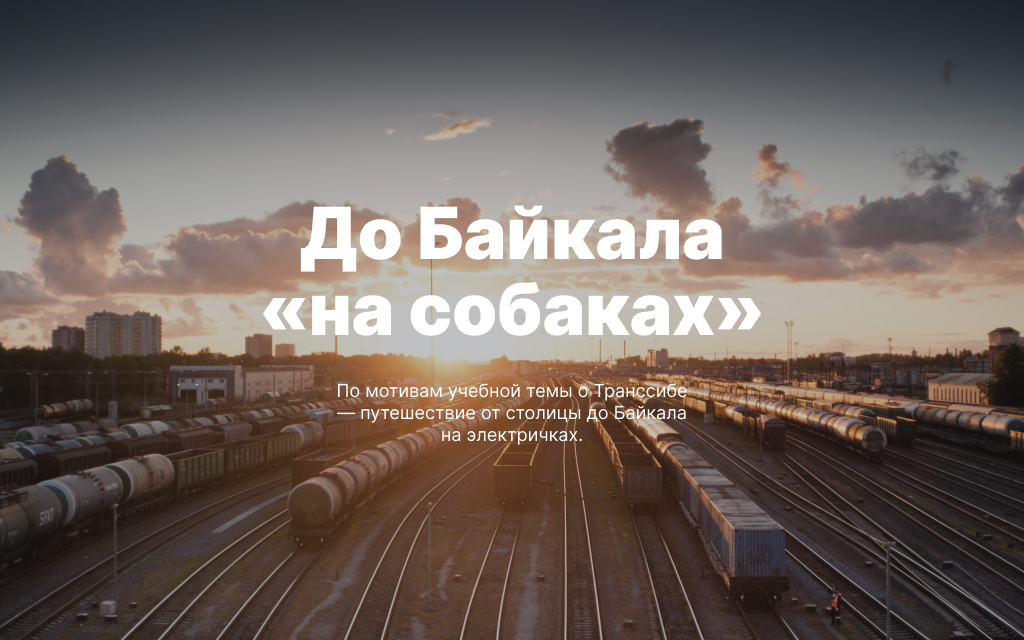
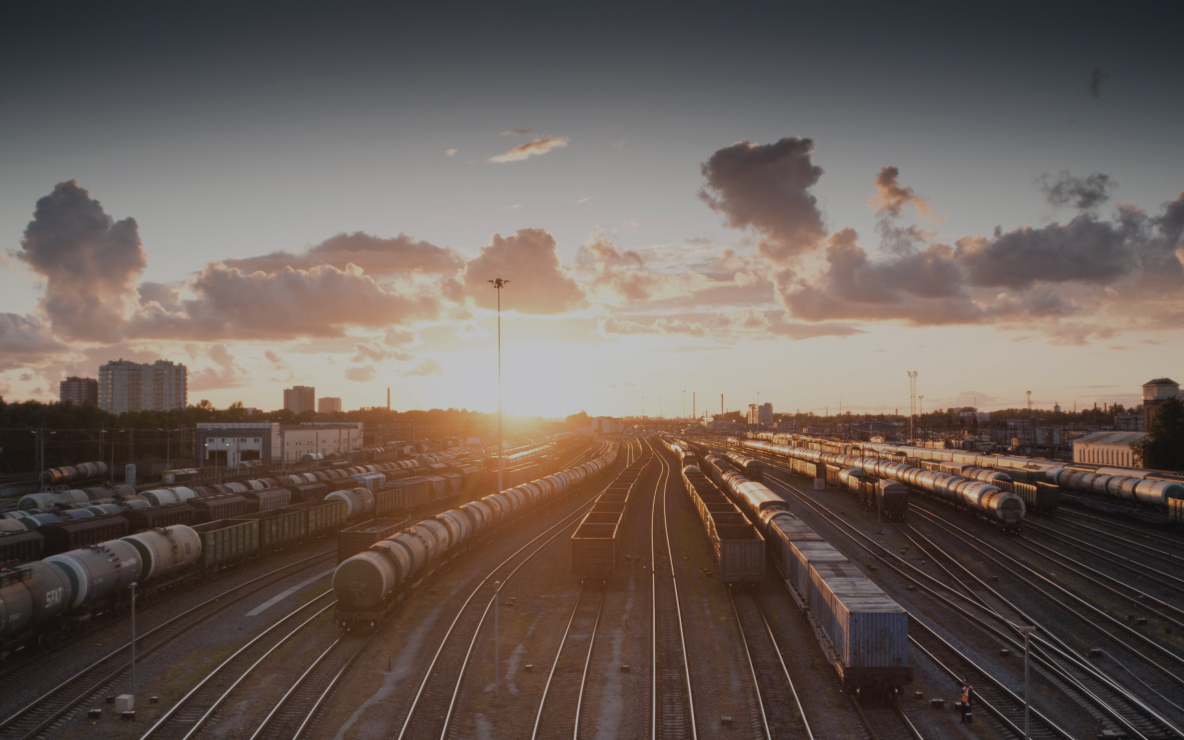
finished 1280

Changed region(s): [[0.25, 0.3125, 0.75, 0.5312], [0.3125, 0.5938, 0.6875, 0.6875]]

diff --git a/index.html b/index.html
@@ -63,11 +63,98 @@
         <img src="images/gallery/gallery_item-12.jpg" alt="Изображение галереи" class="gallery__image">
       </section>
       <section class="nature">
-        <div class="nature__item"></div>
-      </section>
+        <div class="nature__item">
+          <h3 class="nature__title">Куршская коса</h3>
+          <div class="nature__site">
+            <p class="nature__url">url</p>
+            <a href="https://park-kosa.ru" class="nature__link">park-kosa.ru</a>
+          </div>
+          <img src="images/kurshskaya_image.jpg" alt="Изображение природы Куршской Косы" class="nature__image">
+          <div class="nature__description">
+            <p class="nature__text">Здесь, посреди лесов и песчаных дюн, вы сможете увидеть два водных горизонта — спокойного Куршского залива с одной стороны и подёрнутого рябью волн Балтийского моря с другой. Уникальная природная зона на краю российского анклава.</p>
+            <p class="nature__text">На этом Калининградская область не заканчивается. Для путешественника и исследователя там же по соседству — самая западная точка России, Балтийская коса, — и немецкое наследие россыпи небольших приморских городов. Атмосфера здешних мест исключает суету, окуная в спокойствие природы и запах стального, прохладного моря.</p>
+          </div>
+        </div>
+        <div class="nature__item">
+          <h3 class="nature__title">Кольский</h3>
+          <div class="nature__site">
+            <p class="nature__url">url</p>
+            <a href="https://yourshot.nationalgeographic.com/photos/?keywords=kolskiy" class="nature__link">National Geographic</a>
+          </div>
+          <img src="images/kolsky_image.jpg" alt="Изображение природы Куршской Косы" class="nature__image">
+          <div class="nature__description">
+            <p class="nature__text">Почти весь полуостров находится за Полярным кругом. Саамская тундра, от которой на юг — тайга, а на север — Ледовитый океан, прикидывающийся Баренцевым морем.</p>
+            <p class="nature__text">Возможно, вы смотрели Звягинцева и даже слышали историю арктического фестиваля в Териберке. Возможно, слово «Хибины» не осталось под снегом школьных воспоминаний об уроках географии. Возможно, вы не интересовались пронизывающей земную кору сверхглубокой скважиной, а от апатитов вас давно накрывает апатия. Но ваша мечта увидеть северное сияние начинает сбываться с билетом в Мурманск.</p>
+          </div>
+        </div>
+        <div class="nature__item">
+          <h3 class="nature__title">Алтай</h3>
+          <div class="nature__site">
+            <p class="nature__url">url</p>
+            <a href="https://www.facebook.com/vera.bashmakova/posts/10156011613718822" class="nature__link">Facebook</a>
+          </div>
+          <img src="images/altay_image.jpg" alt="Изображение природы Алтая" class="nature__image">
+          <div class="nature__description">
+            <p class="nature__text">Алтай — одно из красивейших мест в России.
+              В первую очередь из-за гор: если ехать вдоль хребта, вы увидите склоны, усыпанные соснами, горные реки и озёра. А если вы откроете в автомобиле окна, сможете познакомиться с невидимым чудом здешних мест — горным воздухом.</p>
+            <p class="nature__text">Климат на Алтае умеренный, поэтому ехать сюда лучше всего летом. Так вы увидите всё разнообразие местной флоры и фауны. По лесам Алтая бродят лоси, над хребтами летают орлы, а на равнинах пасутся косули. И знаменитые манулы — тоже обитатели Алтайского края.</p>
+          </div>
+        </div>
+        <div class="nature__item">
+          <h3 class="nature__title">Зимний Байкал</h3>
+          <div class="nature__site">
+            <p class="nature__url">url</p>
+            <a href="https://vk.com/baikalmile" class="nature__link">https://vk.com/baikalmile</a>
+          </div>
+          <img src="images/baykal_image.jpg" alt="Изображение замерзшей воды" class="nature__image">
+          <div class="nature__description">
+            <p class="nature__text">Всем известен Байкал как крупнейшее озеро
+              в мире. Многие также знают, что это самый большой источник пресной воды и одно из красивейших мест в России.</p>
+            <p class="nature__text">Конечно, это всё так. Но Байкал ещё идеальное место для соревнований по скийорингу. Это такой вид спорта, когда лыжник привязывает себя к мотоциклу, и тандем старается развить как можно бóльшую скорость на льду. В марте 2019 года на фестивале «Байкальская миля» был поставлен мировой рекорд — 197.011 км/ч.</p>
+          </div>
 
+        </div>
+        <div class="nature__item">
+          <h3 class="nature__title">Карелия</h3>
+          <div class="nature__site">
+            <p class="nature__url">url</p>
+            <a href="https://vodlozero.ru" class="nature__link">https://vodlozero.ru/</a>
+          </div>
+          <img src="images/karelia_image.jpg" alt="Изображение замерзшей воды" class="nature__image">
+          <div class="nature__description">
+            <p class="nature__text">Сибирь заканчивается не на Урале, а в Карелии: образующая тайгу сибирская лиственница не растёт западнее Водлозера. Зато здесь она вымахивает на 30 метров — леса карельских национальных парков из-за непроходимых болот никогда не знали топора. Некоторым соснам уже больше чем полтысячелетия. Прикоснитесь к живому существу, видевшему солнце раньше, чем увидал его Иван Грозный.
+              В девственном лесу на сотню километров не встретишь тропы. А на редких тропинках деревья
+              в паре метров от земли помечены медвежьими когтями. Чтобы все знали, кто тут хозяин.</p>
+          </div>
+        </div>
+      </section>
+      <section class="transport">
+        <h3 class="nature__title nature__title_type_center">До Байкала «на собаках»</h3>
+        <p class="nature__text nature__text_type_center">По мотивам учебной темы о Транссибе — путешествие от столицы до Байкала на электричках.</p>
+      </section>
     </main>
-    <footer class="footer"></footer>
+    <footer class="footer">
+      <nav class="footer__menu">
+        <ul class="footer__menu-list">
+          <li class="footer__menu-item">
+            <a href="#" class="footer__menu-link">Карты</a>
+          </li>
+          <li class="footer__menu-item">
+            <a href="#" class="footer__menu-link">Погода</a>
+          </li>
+          <li class="footer__menu-item">
+            <a href="#" class="footer__menu-link">Расписание</a>
+          </li>
+          <li class="footer__menu-item">
+            <a href="#" class="footer__menu-link">Календарь</a>
+          </li>
+          <li class="footer__menu-item">
+            <a href="#" class="footer__menu-link">Путешествия</a>
+          </li>
+        </ul>
+      </nav>
+      <p class="footer__copywright">&COPY; 2020. Впишите своё имя</p>
+    </footer>
   </div>
 </body>
 </html>

diff --git a/pages/index.css b/pages/index.css
@@ -4,11 +4,15 @@
 
 @import "../blocks/container/container.css";
 
+@import "../blocks/footer/footer.css";
+@import "../blocks/footer/__menu-list/footer__menu-list.css";
+@import "../blocks/footer/__menu-item/footer__menu-item.css";
+@import "../blocks/footer/__menu-link/footer__menu-link.css";
+
 @import "../blocks/gallery/gallery.css";
+@import "../blocks/gallery/__image/gallery__image.css";
 
 @import "../blocks/header/header.css";
-
-@import "../blocks/kurshskaya/kurshskaya.css";
 
 @import "../blocks/languages/languages.css";
 @import "../blocks/languages/__text/languages__text.css";
@@ -20,6 +24,14 @@
 @import "../blocks/main/main.css";
 
 @import "../blocks/nature/nature.css";
+@import "../blocks/nature/__item/nature__item.css";
+@import "../blocks/nature/__title/nature__title.css";
+@import "../blocks/nature/__title/_type/nature__title_type_center.css";
+@import "../blocks/nature/__site/nature__site.css";
+@import "../blocks/nature/__url/nature__url.css";
+@import "../blocks/nature/__link/nature__link.css";
+@import "../blocks/nature/__text/nature__text.css";
+@import "../blocks/nature/__text/_type/nature__text_type_center.css";
 
 @import "../blocks/page/page.css";
 
@@ -35,7 +47,7 @@
 @import "../blocks/promo/__text/promo__text.css";
 @import "../blocks/promo/__title/promo__title.css";
 
-
+@import "../blocks/transport/transport.css";
 
 @media screen and (max-width: 1280px) {
     /* стили для десктопных экранов */

diff --git a/blocks/transport/transport.css b/blocks/transport/transport.css
@@ -1,0 +1,16 @@
+.transport {
+    transition: 1.5s;
+    width: 100%;
+    height: 740px;
+    margin: 92px auto 0 auto;
+    background-image: url("../../images/byTrain_cover.jpg");
+    background-position: center center;
+    background-repeat: no-repeat;
+    background-size: cover;
+    background-attachment: fixed;
+}
+
+.transport:hover {
+    cursor: pointer;
+    background-image: url("../../images/byTrain_cover_overlay.jpg");
+}

diff --git a/blocks/nature/__link/nature__link.css b/blocks/nature/__link/nature__link.css
@@ -1,0 +1,14 @@
+.nature__link {
+    transition: 1.5s;
+    padding-top: 12px;
+    color:var(--main-font);
+    font-weight: 300;
+    font-size: 18px;
+    line-height: 1.5;
+    text-decoration-line: underline;
+}
+
+.nature__link:hover {
+    cursor: pointer;
+    opacity: 0.8;
+}

diff --git a/blocks/footer/__menu-link/footer__menu-link.css b/blocks/footer/__menu-link/footer__menu-link.css
@@ -1,0 +1,13 @@
+.footer__menu-link {
+    transition: 1.5s;
+    color: var(--main-font);
+    text-decoration: none;
+    font-weight: 400;
+    font-size: 16px;
+    line-height: 1.2;
+}
+
+.footer__menu-link:hover {
+    cursor: pointer;
+    opacity: 0.8;
+}

diff --git a/blocks/nature/__item/nature__item.css b/blocks/nature/__item/nature__item.css
@@ -1,5 +1,9 @@
 .nature__item {
     padding-bottom: 80px;
+    display: grid;
+    grid-template-columns: repeat(2, 460px);
+    grid-template-rows: repeat(2, auto);
+    gap: 40px;
 }
 .nature__item:last-child {
     padding-bottom: 0;

diff --git a/blocks/footer/footer.css b/blocks/footer/footer.css
@@ -1,6 +1,6 @@
-.header {
-    padding-top: 28px;
+.footer {
     width: 100%;
+    margin: 92px auto 24px auto;
     display: flex;
     flex-direction: row;
     justify-content: space-between;

diff --git a/blocks/nature/__text/nature__text.css b/blocks/nature/__text/nature__text.css
@@ -1,0 +1,10 @@
+.nature__text {
+    padding-bottom: 26px;
+    font-weight: 400;
+    font-size: 18px;
+    line-height: 1.5;
+}
+
+.nature__text:last-child {
+    padding-bottom: 0;
+}

diff --git a/blocks/nature/__url/nature__url.css b/blocks/nature/__url/nature__url.css
@@ -1,0 +1,8 @@
+.nature__url {
+    font-weight: 400;
+    font-size: 12px;
+    line-height: 1;
+    color: var(--grey);
+    text-transform: uppercase;
+    letter-spacing: 0.2em;
+}

diff --git a/blocks/nature/__title/_type/nature__title_type_center.css b/blocks/nature/__title/_type/nature__title_type_center.css
@@ -1,0 +1,7 @@
+.nature__title_type_center {
+    width: 45%;
+    margin: 0 auto;
+    padding-top: 245px;
+    padding-bottom: 32px;
+    text-align: center;
+}

diff --git a/blocks/gallery/__image/gallery__image.css b/blocks/gallery/__image/gallery__image.css
@@ -1,0 +1,7 @@
+.gallery__image {
+    transition: transform 0.25s;
+}
+
+.gallery__image:hover {
+    transform: scale(1.1);
+}

diff --git a/blocks/footer/__menu-item/footer__menu-item.css b/blocks/footer/__menu-item/footer__menu-item.css
@@ -1,0 +1,7 @@
+.footer__menu-item {
+    padding-right: 18px;
+}
+
+.footer__menu-item:last-child {
+    padding-right: 0;
+}
